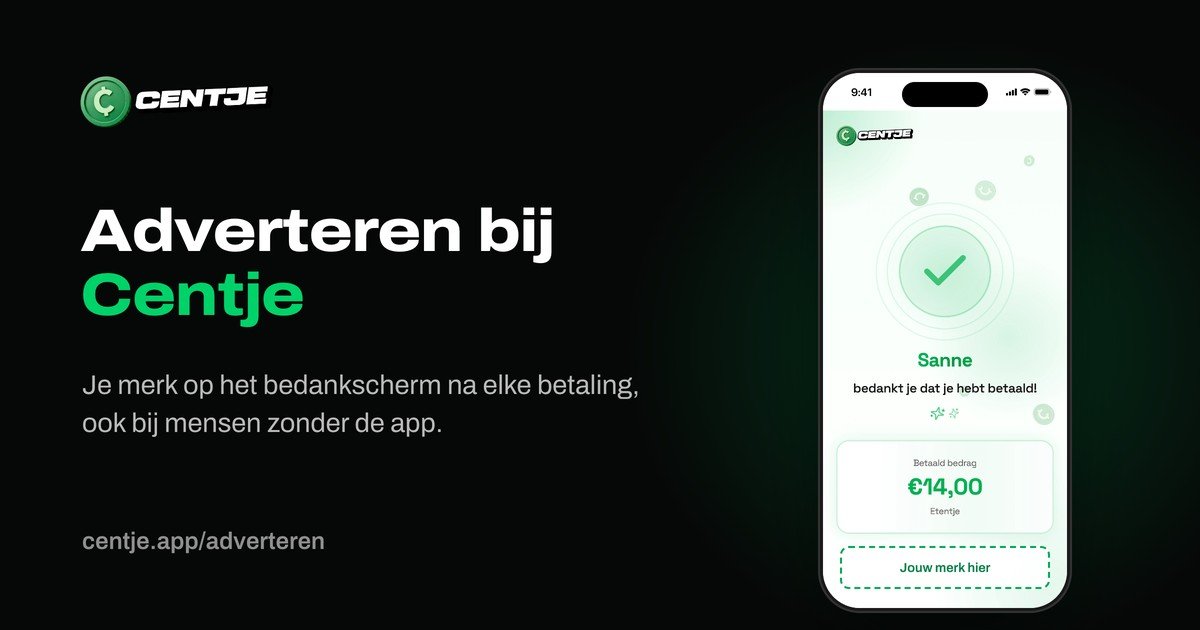
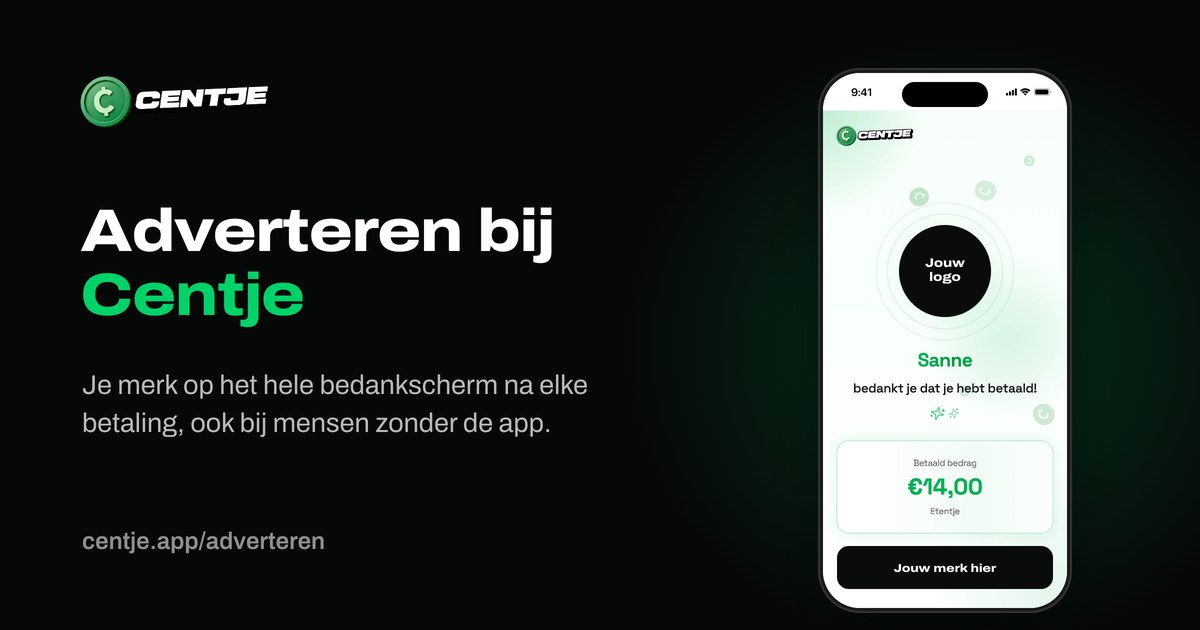
feat(adverteren): het hele bedankscherm als plek, donker blok en duidelijke plekken
- Hoofdplaatsing op een donkere band (kopbalk kleurt mee): het witte
  scherm en de plekken springen eruit in plaats van wit op wit.
- Twee plekken op het bedankscherm: je logo groot in het midden (over de
  binnenste cirkel, ringen blijven zichtbaar) en onderaan, even breed en
  even rond als het blok met het betaalde bedrag. Tekst: je merk krijgt
  het volledige scherm.
- Bereik als twee kaarten, Zonder de app in merkgroen.
- Deelafbeelding en metadata bijgewerkt.

Claude-Session: https://claude.ai/code/session_01LkfZPYMPPRF21mqbHWvxTM

diff --git a/app/adverteren/page.tsx b/app/adverteren/page.tsx
@@ -9,11 +9,11 @@ import { pageMetadata } from "@/lib/seo";
 export const metadata: Metadata = pageMetadata({
   title: "Adverteren",
   description:
-    "Adverteren bij Centje: je merk op het bedankscherm na elke betaling, dat ook mensen zonder de app zien, door de hele app en in de spellen.",
+    "Adverteren bij Centje: je merk op het volledige bedankscherm na elke betaling, dat ook mensen zonder de app zien, in de app en in de spellen.",
   path: "/adverteren",
   image: {
     url: "/adverteren/og-adverteren.jpg",
-    alt: "Adverteren bij Centje: je merk op het bedankscherm na een betaling",
+    alt: "Adverteren bij Centje: je merk op het volledige bedankscherm na een betaling",
   },
 });
 
@@ -61,28 +61,37 @@ export default function AdverterenPage() {
       title="Adverteren bij Centje"
       intro="Laat je merk zien op het moment dat de rekening geregeld is: na elke betaling, in de app en in de browser."
     >
-      {/* Hoofdplaatsing: het bedankscherm */}
-      <section aria-labelledby="bedankscherm" className="mx-auto max-w-6xl overflow-x-clip px-4 py-20 sm:px-6 sm:py-28">
-        <div className="grid items-center gap-14 lg:grid-cols-[minmax(0,1.1fr)_minmax(0,0.9fr)] lg:gap-20">
+      {/* Hoofdplaatsing: het hele bedankscherm, op donker zodat het scherm en de plekken eruit springen. */}
+      <section
+        aria-labelledby="bedankscherm"
+        data-kop="donker"
+        className="relative isolate mt-6 overflow-hidden bg-[#060807] text-white sm:mt-10"
+      >
+        <div
+          aria-hidden
+          className="absolute inset-0 -z-10 bg-[radial-gradient(50%_65%_at_76%_50%,rgba(0,210,106,0.17),rgba(0,210,106,0)_70%)]"
+        />
+        <div className="mx-auto grid max-w-6xl items-center gap-14 px-4 py-20 sm:px-6 sm:py-28 lg:grid-cols-[minmax(0,1.1fr)_minmax(0,0.9fr)] lg:gap-20">
           <div>
-            <p className="text-sm font-semibold text-[#007F45]">Hoofdplaatsing</p>
+            <p className="text-sm font-semibold text-[#00D26A]">Hoofdplaatsing</p>
             <h2
               id="bedankscherm"
-              className="font-heading mt-3 text-balance text-[32px] font-extrabold leading-[1.04] text-[#0A0C0A] sm:text-5xl"
+              className="font-heading mt-3 text-balance text-[32px] font-extrabold leading-[1.04] sm:text-5xl"
             >
-              Op het bedankscherm na elke betaling
+              Het hele bedankscherm, na elke betaling
             </h2>
-            <p className="mt-6 max-w-[50ch] text-base leading-relaxed text-neutral-600 sm:text-lg">
+            <p className="mt-6 max-w-[50ch] text-base leading-relaxed text-white/70 sm:text-lg">
               Zodra een verzoek betaald is, verschijnt het bedankscherm. De rekening is geregeld en de
-              sfeer is goed: het moment waarop je merk het meest positief binnenkomt.
+              sfeer is goed: het moment waarop je merk het meest positief binnenkomt. Je merk krijgt
+              het volledige scherm: groot in het midden en onderaan, onder het betaalde bedrag.
             </p>
             <ul className="mt-10 space-y-8">
               {BEDANKSCHERM.map(({ title, text }) => (
                 <li key={title}>
-                  <span className="font-heading block text-lg font-extrabold leading-tight text-[#0A0C0A]">
+                  <span className="font-heading block text-lg font-extrabold leading-tight text-white">
                     {title}
                   </span>
-                  <span className="mt-2 block max-w-[52ch] text-[15px] leading-relaxed text-neutral-600 sm:text-base">
+                  <span className="mt-2 block max-w-[52ch] text-[15px] leading-relaxed text-white/65 sm:text-base">
                     {text}
                   </span>
                 </li>
@@ -93,7 +102,7 @@ export default function AdverterenPage() {
           <figure className="relative mx-auto w-[250px] sm:w-[280px]">
             <div
               aria-hidden
-              className="absolute -inset-14 -z-10 rounded-full bg-[radial-gradient(closest-side,rgba(0,210,106,0.2),rgba(0,210,106,0))]"
+              className="absolute -inset-14 -z-10 rounded-full bg-[radial-gradient(closest-side,rgba(0,210,106,0.26),rgba(0,210,106,0))] blur-2xl"
             />
             <IPhoneFrame>
               <Image
@@ -106,13 +115,25 @@ export default function AdverterenPage() {
                 sizes="280px"
                 className="object-cover object-top"
               />
-              {/* De advertentieplek onderaan het scherm, onder het betaalde bedrag. */}
-              <span className="absolute inset-x-[7%] top-[88.5%] flex h-[8%] items-center justify-center rounded-[3.5cqw] border-2 border-dashed border-[#00A855] bg-white/90 text-[3.8cqw] font-semibold text-[#007F45]">
+              {/* Plek 1: groot in het midden, precies over de binnenste cirkel; de ringen eromheen blijven zichtbaar. */}
+              <span
+                aria-hidden
+                className="font-heading absolute left-1/2 top-[37.05%] flex aspect-square w-[37.2cqw] -translate-x-1/2 -translate-y-1/2 items-center justify-center rounded-full bg-[#0A0C0A] text-center text-[5cqw] font-extrabold leading-[1.1] text-white"
+              >
+                Jouw
+                <br />
+                logo
+              </span>
+              {/* Plek 2: onderaan, onder het betaalde bedrag; even breed en even rond als dat blok. */}
+              <span
+                aria-hidden
+                className="font-heading absolute inset-x-[5.6%] top-[88.5%] flex h-[8%] items-center justify-center rounded-[4.75cqw] bg-[#0A0C0A] text-[4.4cqw] font-extrabold text-white"
+              >
                 Jouw merk hier
               </span>
             </IPhoneFrame>
-            <figcaption className="mt-5 text-center text-sm text-neutral-500">
-              Het bedankscherm, met onderaan de plek voor je merk.
+            <figcaption className="mt-5 text-center text-sm text-white/55">
+              Het bedankscherm, met je merk in het midden en onderaan.
             </figcaption>
           </figure>
         </div>
@@ -127,13 +148,21 @@ export default function AdverterenPage() {
           >
             Je bereikt ook mensen zonder de app
           </h2>
-          <ul className="mt-10 grid gap-10 md:grid-cols-2 md:gap-16">
-            {BEREIK.map(({ title, text }) => (
-              <li key={title}>
+          {/* Zonder de app in merkgroen, net als "Je vrienden hebben geen app nodig" op de homepage. */}
+          <ul className="mt-10 grid gap-4 sm:gap-6 md:grid-cols-2">
+            {BEREIK.map(({ title, text }, index) => (
+              <li
+                key={title}
+                className={`rounded-[28px] p-7 sm:p-10 ${index === 1 ? "bg-[#00D26A]" : "bg-[#F4F7F5]"}`}
+              >
                 <span className="font-heading block text-xl font-extrabold leading-tight text-[#0A0C0A] sm:text-2xl">
                   {title}
                 </span>
-                <span className="mt-3 block max-w-[46ch] text-[15px] leading-relaxed text-neutral-600 sm:text-base">
+                <span
+                  className={`mt-3 block max-w-[46ch] text-[15px] leading-relaxed sm:text-base ${
+                    index === 1 ? "font-medium text-[#0A0C0A]/80" : "text-neutral-600"
+                  }`}
+                >
                   {text}
                 </span>
               </li>
